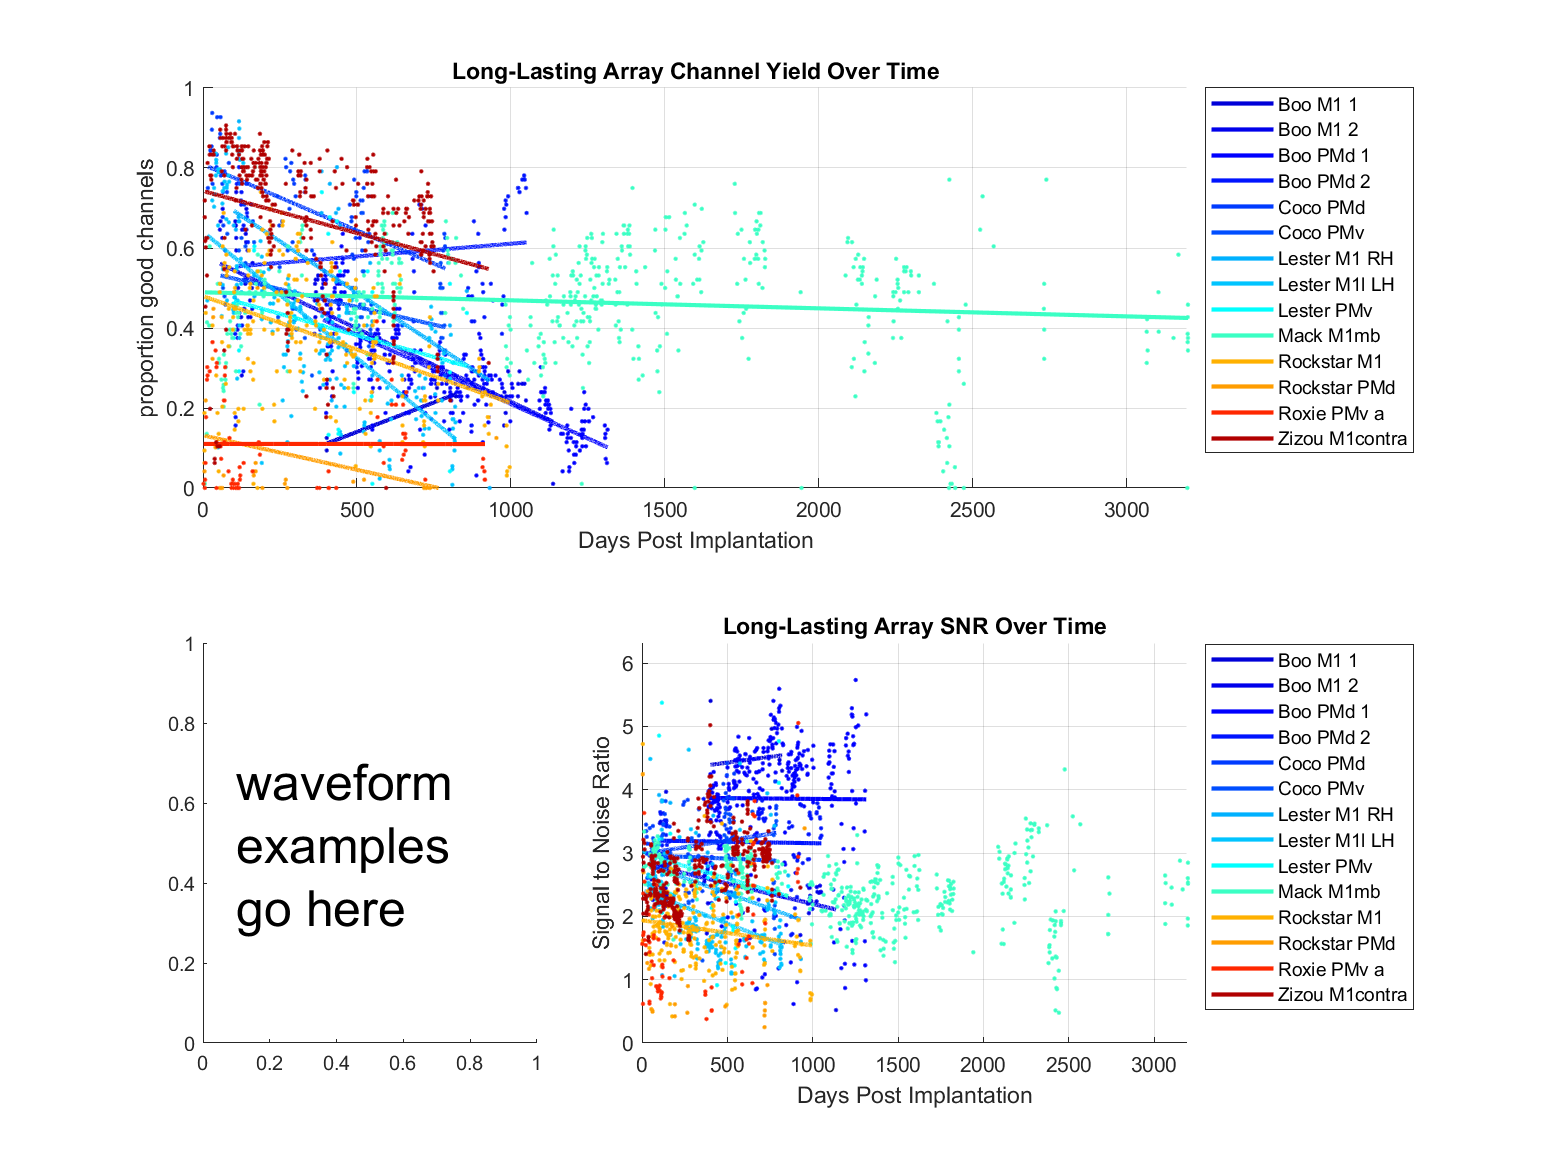
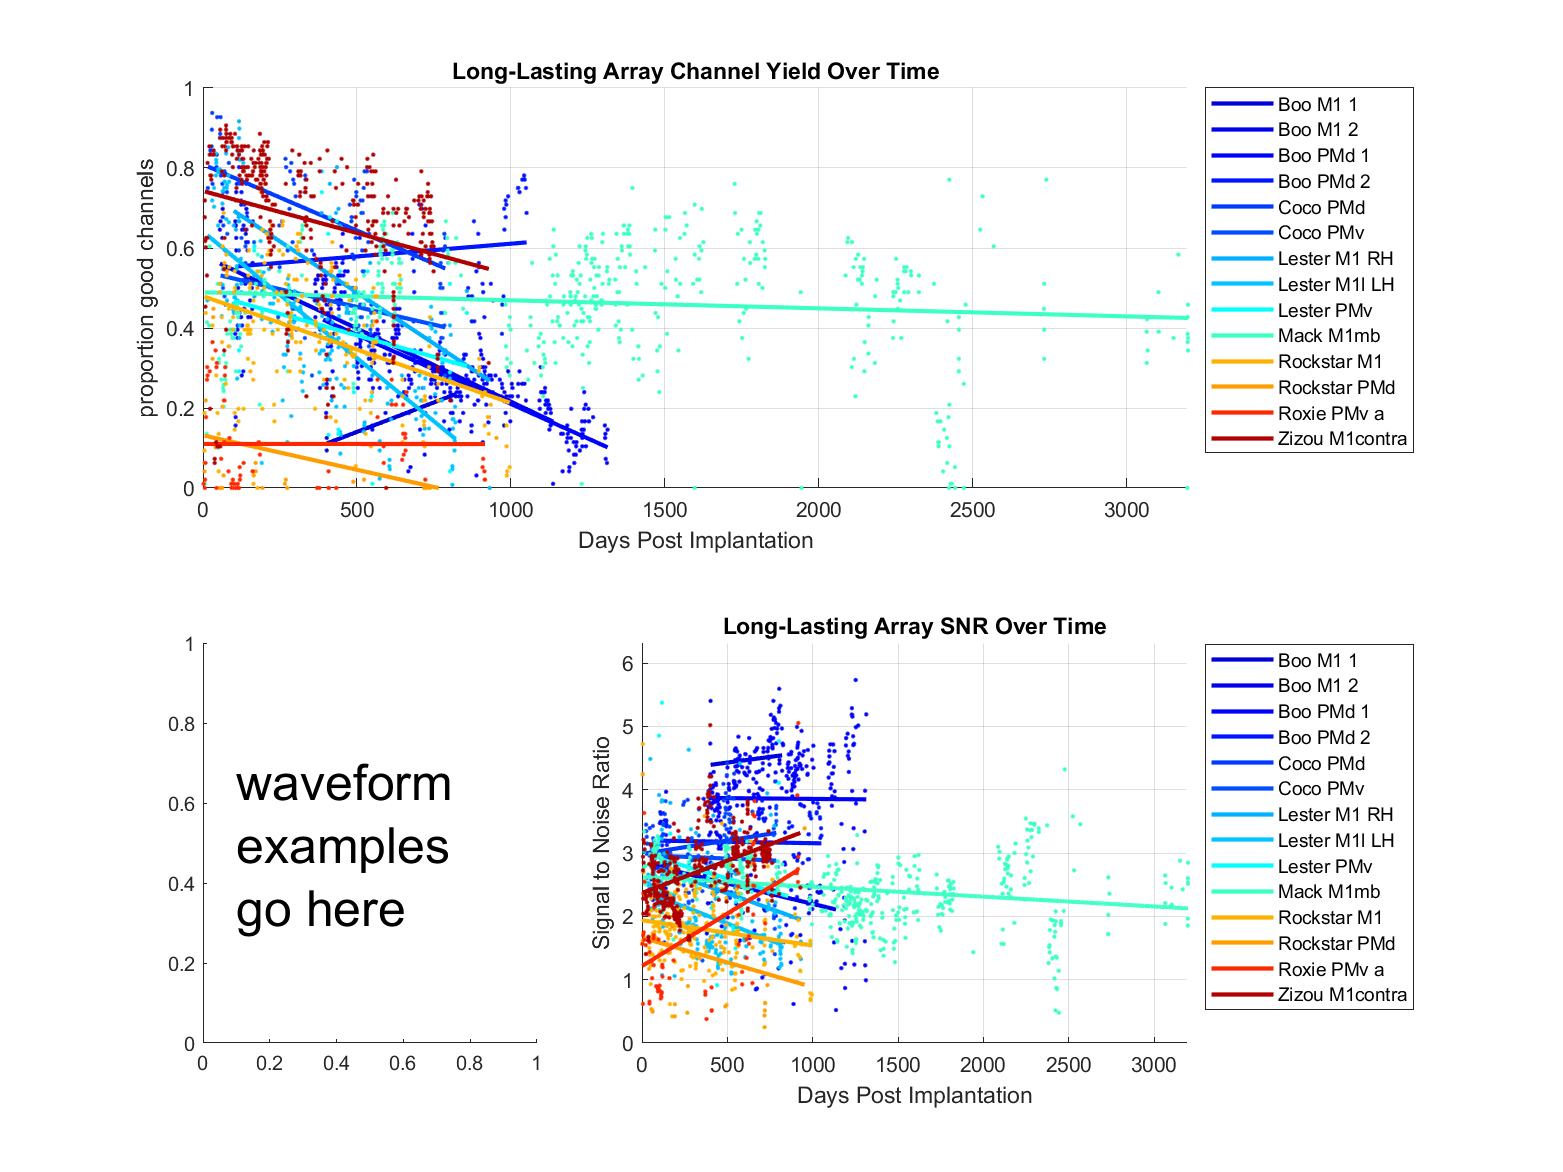
fixed line-drawing issue

diff --git a/code/paper_figures_code/figure_one.m b/code/paper_figures_code/figure_one.m
@@ -34,13 +34,13 @@ for iArray = 1:length(array_names)
         plot(relative_days_temp,good_channels_temp,'.','linewidth',1,'color',colors(iArray,:));
         quad_fit_to_good_channels = polyfit(relative_days_temp,good_channels_temp,1);
         quad_fit_to_good_channels = ...
-            polyval(quad_fit_to_good_channels,min(relative_days_temp):.1:max(relative_days_temp));
+            polyval(quad_fit_to_good_channels,min(relative_days_temp):1:max(relative_days_temp));
         
         if max(quad_fit_to_good_channels)>128
             disp('stop, who are you even')
         else
             plots{iPlotName} = ...
-                plot(min(relative_days_temp):.1:max(relative_days_temp),...
+                plot(min(relative_days_temp):1:max(relative_days_temp),...
                 quad_fit_to_good_channels,'-','color',colors(iArray,:),'linewidth',2);
         end
         iPlotName = iPlotName + 1;
@@ -86,7 +86,7 @@ for iArray = 1:length(array_names)
     file_count = 1;
     for iFile = 1:size(array_data,2)
         if strcmp(array_data(iFile).array_name,array_names{iArray})
-            if ~ischar(array_data(iFile).SNR_all_channels)
+            if ~ischar(array_data(iFile).SNR_all_channels) && ~isnan(array_data(iFile).SNR_all_channels) 
                 SNR_temp(file_count) = array_data(iFile).SNR_all_channels;
                 relative_days_temp(file_count) = array_data(iFile).relative_days;
                 file_count = file_count + 1;
@@ -100,12 +100,12 @@ for iArray = 1:length(array_names)
         
         % Linear Regression to each array's data points.
         quad_fit_to_SNR = polyfit(relative_days_temp,SNR_temp,1);
-        quad_fit_to_SNR = polyval(quad_fit_to_SNR,min(relative_days_temp):.1:max(relative_days_temp));
+        quad_fit_to_SNR = polyval(quad_fit_to_SNR,min(relative_days_temp):1:max(relative_days_temp));
         
         if max(quad_fit_to_SNR)>128
         else
             plots{iPlotName} = ...
-                plot(min(relative_days_temp):.1:max(relative_days_temp),...
+                plot(min(relative_days_temp):1:max(relative_days_temp),...
                 quad_fit_to_SNR,'-','color',colors(iArray,:),'linewidth',2);
         end
         iPlotName = iPlotName + 1;
